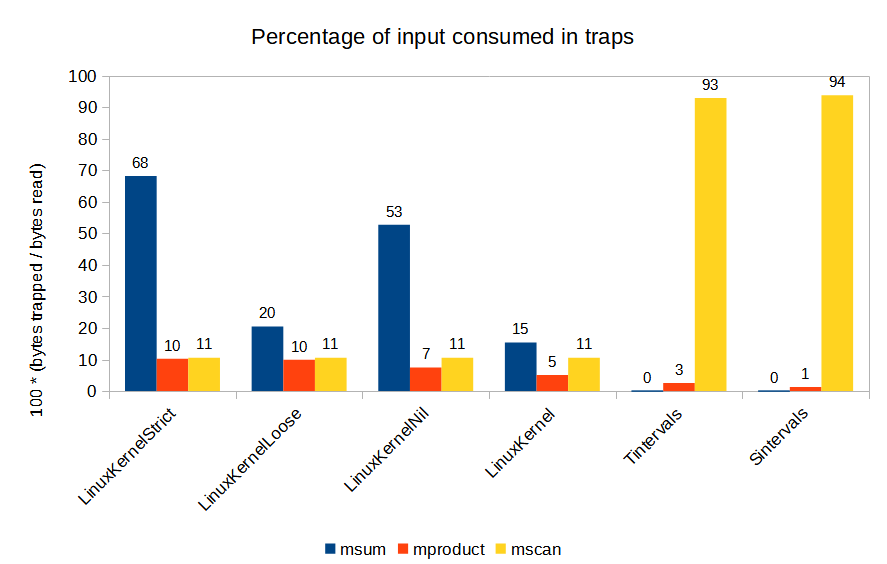
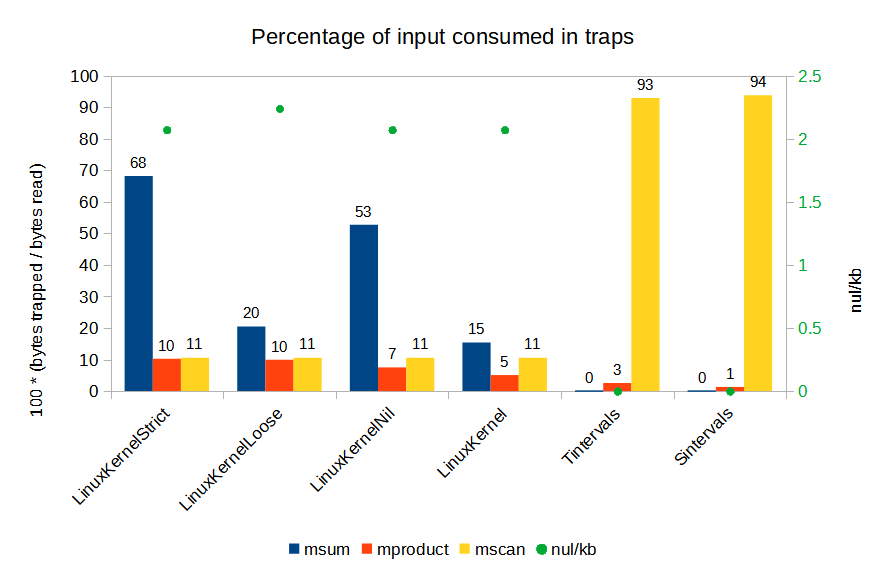
Update metrics images for the wiki [no ci]
- add nul/kb to traps chart
- remove YourKit blurb

diff --git a/README.md b/README.md
@@ -355,27 +355,14 @@ Clone the ribose repo and run `ant ribose` to build the ribose library and API (
 
 The `TRun` target is coupled with the transductor effectors and is sufficient for basic ribose runtime models containing only transductions that write output though the `out[...]` effector. Specialized `ITarget` implementations can express additional effectors that capture transduction output in simple value objects for assimilation into the target, which may also interact with other domain objects. In any case, to build a ribose model for a collection of transduction patterns, emulate the procedure for building `Test.model` (see the `compile-test-patterns` and `package-test-patterns` targets in `build.xml`).
 
-Shell scripts are available in `etc/sh` to support compiling patterns, packaging transducers into models, and running transductions from ribose models:
+Shell scripts for compiling patterns, packaging transducers into ribose models, and running transductions are available in `etc/sh`:
 
 - _patterns_: compile ginr patterns from a containing folder to DFAs
 - _compile_: compile ginr DFAs to ribose transducers and package transducers into a ribose model
 - _ribose_: start a ribose transducer on a runtime transductor to transduce an input file
 
-To learn how to use ribose models in the JVM runtime build ribose and see the javadoc pages in `javadoc/` or `jars/ribose-0.0.1-api.jar`.
+To learn how to use ribose models in the JVM runtime build ribose and see the javadoc pages in `javadoc/`.
 
 For some background reading and a historical perspective visit the [ribose wiki](https://github.com/jrte/ribose/wiki).
 
-The current version of ribose is packaged in `jars/ribose-0.0.1.jar`.
-
 See [LICENSE](https://github.com/jrte/ribose/raw/master/LICENSE) for ribose licensing details.
-
----
-![YourKit](https://www.yourkit.com/images/yklogo.png)
-
-The jrte project uses YourKit to identify and eliminate bottlenecks and turbulence in stream processing workflows and to reduce object creation to a bare minimum while maintaining high throughput.
-
-YourKit supports open source projects with innovative and intelligent tools
-for monitoring and profiling Java and .NET applications.
-YourKit is the creator of <a href="https://www.yourkit.com/java/profiler/">YourKit Java Profiler</a>,
-<a href="https://www.yourkit.com/.net/profiler/">YourKit .NET Profiler</a>,
-and <a href="https://www.yourkit.com/youmonitor/">YourKit YouMonitor</a>.
